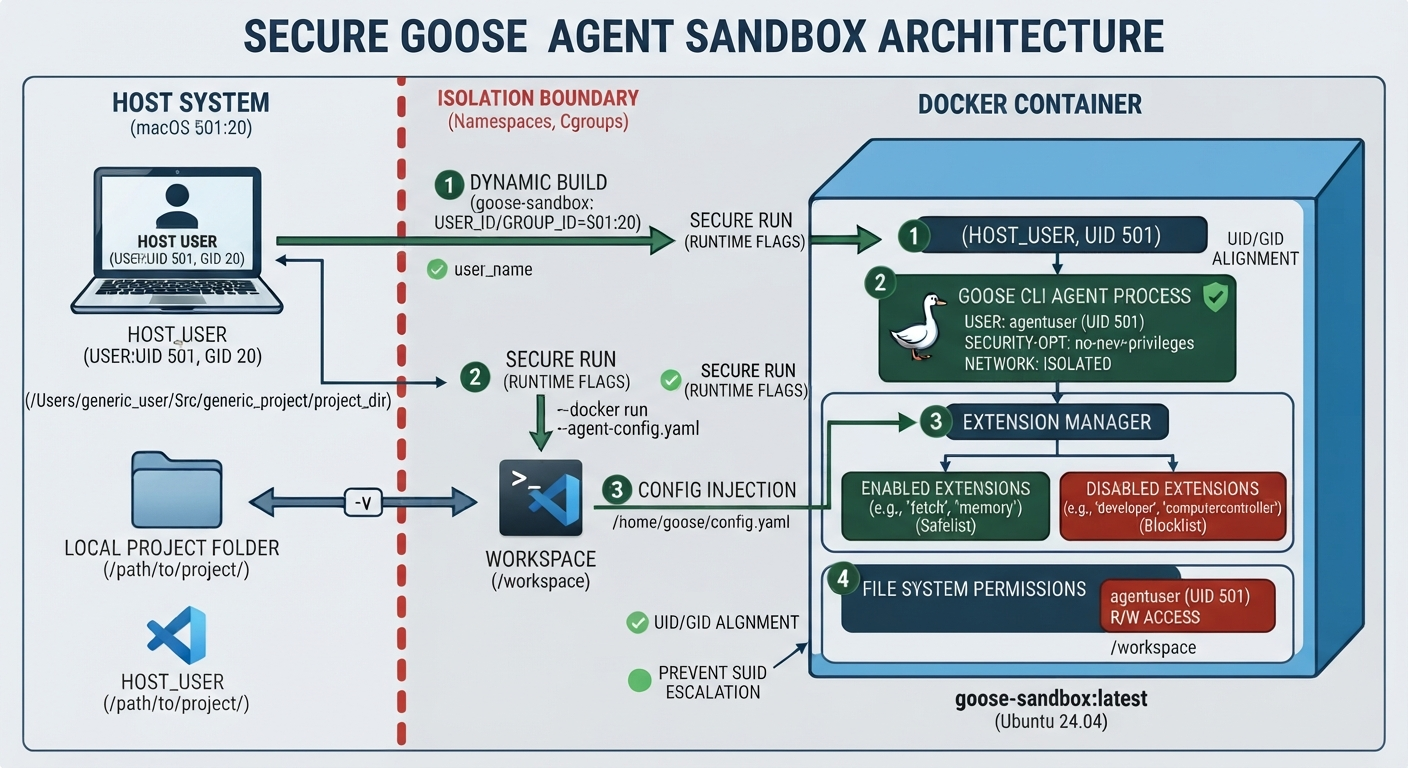
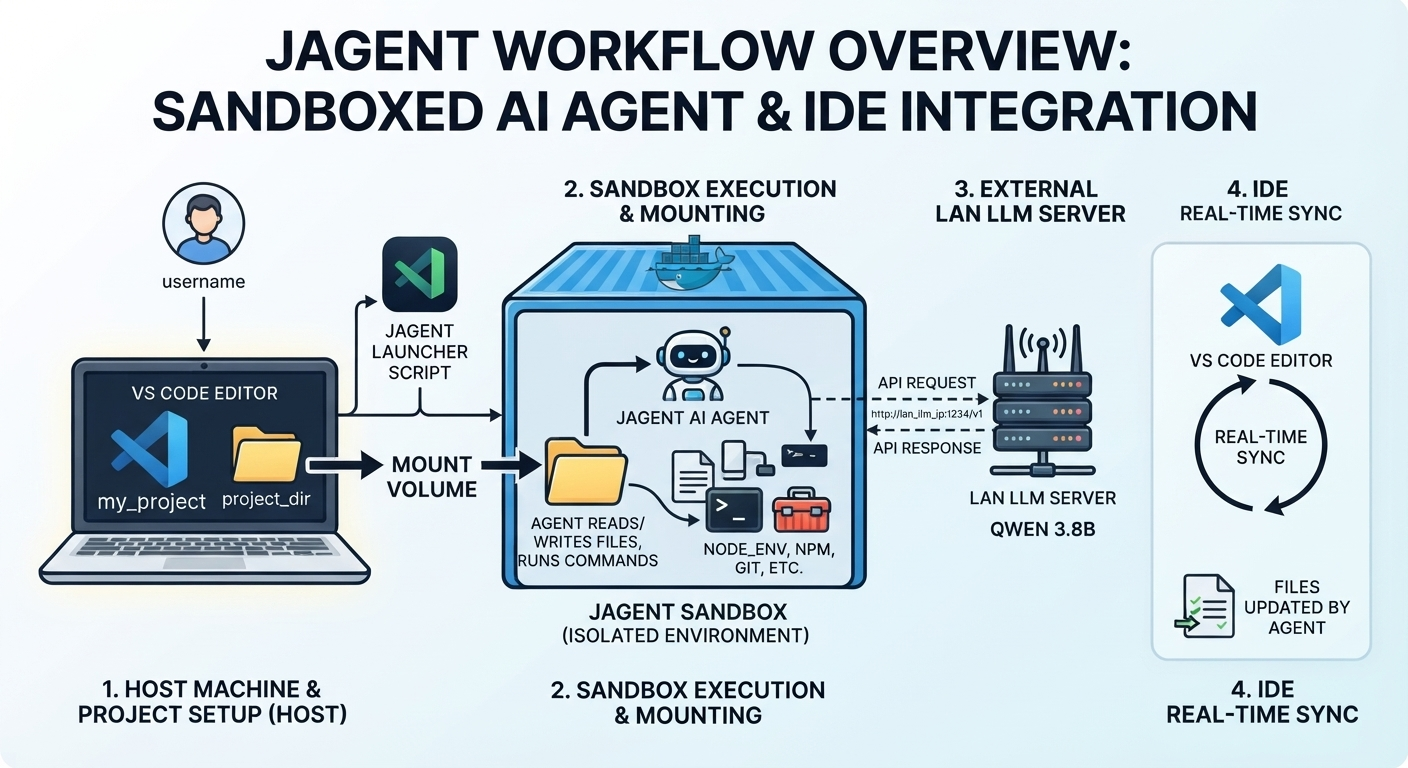
Update README.md and add current-scope.md for improved documentation and clarity

diff --git a/README.md b/README.md
@@ -1,8 +1,27 @@
-# Goose Agent Sandbox Workflow
+# Jagent
 
 An experimental workflow for constraining an AI coding agent within a securely configured container.
 
 ![Big Picture](doc/src/big_pic.jpeg)
+
+## Colima
+
+Jagent uses [Colima](https://github.com/abiosoft/colima) instead of Docker Desktop. This is a deliberate local-development choice: Colima simplifies networking when the LLM is running on a separate host on the LAN. This project does not claim that Colima provides stronger isolation than Docker Desktop; the choice is primarily about connectivity and workflow simplicity.
+
+## Successful Goose Prompt
+
+![Jagent logo](doc/src/logo.png)
+
+Example of a successful prompt inside the configured project boundary:
+
+```text
+You: Inspect the project files and summarize the current implementation. Do not modify anything.
+
+Goose: I inspected the mounted project directory and found the launcher, container definition,
+	   and configuration template. No files were modified.
+```
+
+See [Current Scope](doc/current-scope.md) for the implementation boundary and open questions.
 
 This project explores how to make an AI coding agent, currently **Qwen 3.8**, behave within clear container boundaries. It is a small, experimental harness around the Goose CLI rather than a general-purpose container platform.
 
@@ -12,19 +31,6 @@ The central question is how to balance two kinds of control:
 - **Agent configuration:** limit what the agent can do, avoid unrestricted shell access, and require manual approval before changes or other sensitive actions.
 
 The goal is defense in depth. Container isolation limits the impact of a misbehaving agent, while Goose configuration limits the actions the agent is allowed to request. Neither layer should be treated as a complete security boundary on its own.
-
-## Current Scope
-
-The workflow currently:
-
-- Builds `goose-sandbox:latest` from the repository `Dockerfile` when the image is missing.
-- Runs Goose in an Ubuntu container as a non-root user.
-- Mounts the selected project directory at `/workspace` and sets it as Goose's working directory.
-- Uses Docker's `no-new-privileges` security option.
-- Passes the provider, model, endpoint, approval mode, and developer-extension setting from `agent-config.yaml`.
-- Generates and mounts a minimal Goose application configuration for the container.
-
-The project is intentionally focused on the boundary between the agent and its execution environment. It does not claim to provide a complete security assessment of Docker, the host operating system, the model, Goose, or the configured API endpoint.
 
 ## Configuration
 
@@ -45,13 +51,3 @@ python3 run-agent.py /path/to/your-project
 ```
 
 The project directory must contain `agent-config.yaml`. The launcher builds the image if necessary and then starts an interactive Goose session inside the container.
-
-## Open Questions
-
-This experiment is intended to make trade-offs visible. Areas for further work include:
-
-- defining a reliable no-shell or restricted-tool policy for the agent;
-- reducing the container's filesystem, network, and device access;
-- aligning container and host-user IDs without weakening file permissions;
-- documenting which actions require approval and which are blocked outright.
-- boundary-escape scenarios;

diff --git a/doc/current-scope.md b/doc/current-scope.md
@@ -1,0 +1,24 @@
+# Current Scope
+
+Jagent explores how to constrain an AI coding agent, currently **Qwen 3.8**, within a container boundary while keeping the workflow usable.
+
+The workflow currently:
+
+- Builds `goose-sandbox:latest` from the repository `Dockerfile` when the image is missing.
+- Runs Goose in an Ubuntu container as a non-root user.
+- Mounts the selected project directory at `/workspace` and sets it as Goose's working directory.
+- Adds the host and LAN LLM endpoints needed by the local setup.
+- Passes the project YAML configuration into the container as Goose's application configuration.
+- Starts an interactive `goose session` with the selected project's configuration.
+
+The project is intentionally focused on the boundary between the agent and its execution environment. It does not claim to provide a complete security assessment of Docker, Colima, the host operating system, the model, Goose, or the configured API endpoint.
+
+## Open Questions
+
+This experiment is intended to make trade-offs visible. Areas for further work include:
+
+- defining a reliable no-shell or restricted-tool policy for the agent;
+- reducing the container's filesystem, network, and device access;
+- aligning container and host-user IDs without weakening file permissions;
+- documenting which actions require approval and which are blocked outright;
+- testing prompt-injection and boundary-escape scenarios.
